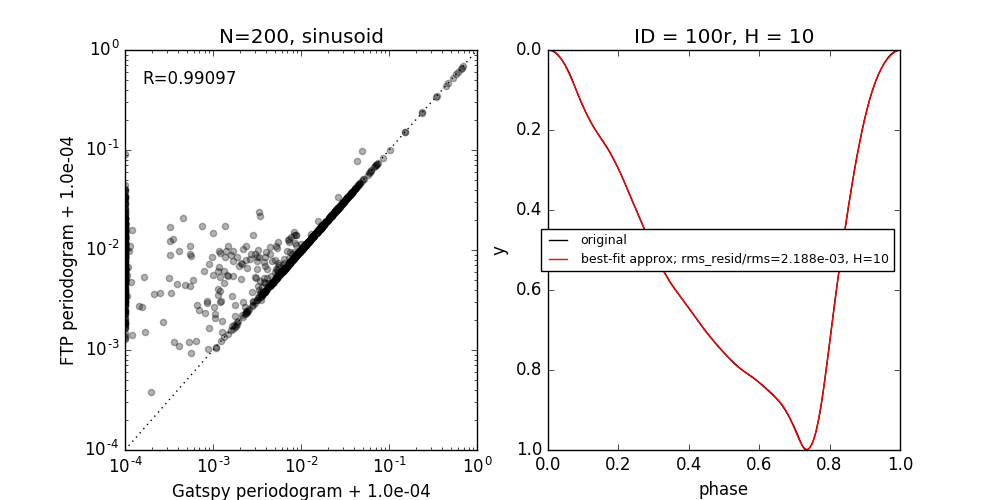
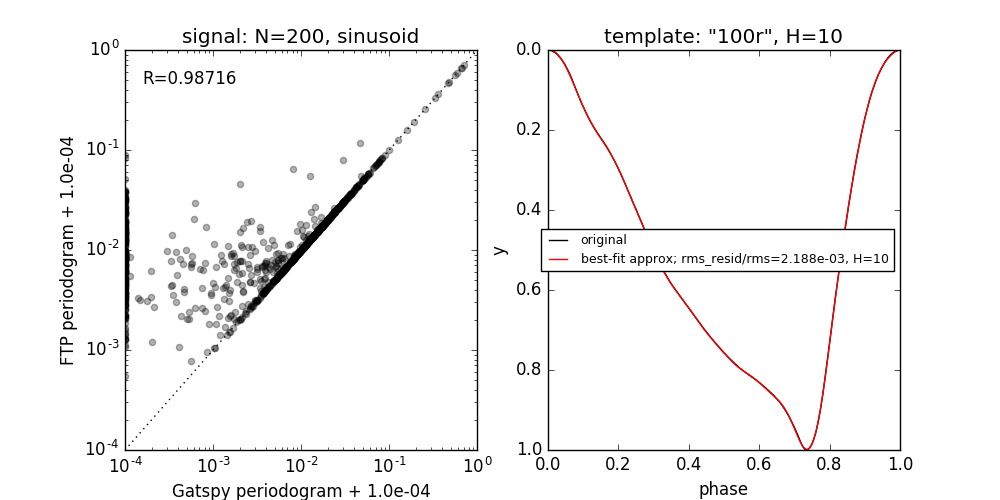
edited readme, small edits to the testing script

diff --git a/testing.py b/testing.py
@@ -188,14 +188,14 @@ if __name__ == '__main__':
 	axp.text(0.05, 0.95, "R=%.5f"%(pearsonr(pg, p)[0]), 
 		transform=axp.transAxes, ha='left', va='top')
 
-	axp.set_title("N=%d, sinusoid"%(N))
+	axp.set_title("signal: N=%d, sinusoid"%(N))
 	template.add_plot_to_axis(axt)
 	axt.set_xlabel('phase')
 	axt.set_ylabel('y')
 	axt.set_xlim(0, 1)
 	axt.set_ylim(0, 1)
 	#axt.legend(loc='best', fontsize=9)
-	axt.set_title('ID = %s, H = %d'%(ftp_template_id, template.nharmonics))
+	axt.set_title('template: "%s", H=%d'%(ftp_template_id, template.nharmonics))
 	#axt.text(0.5, 0.05, '$\\left<\\left(\\hat{T} - T\\right)^2\\right>^{1/2}'\
 	#					'/\\left<T^2\\right>^{1/2}=%.5f$'%(template.rms_resid_over_rms), transform=axt.transAxes, ha='center', va='bottom')
 	axt.invert_yaxis()

diff --git a/README.md b/README.md
@@ -23,7 +23,7 @@ uses non-linear least-squares fitting to compute the optimal parameters
 process scales as `N_obs*N_f`, where `N` is the number of observations and
 `N_f` is the number of frequencies at which to calculate the periodogram.
 
-This process is extremely slow. [Sesar et al. (2016)]() applied a similar
+This process is extremely slow. [Sesar et al. (2016)](https://arxiv.org/abs/1611.08596) applied a similar
 template fitting procedure to multiband Pan-STARRS photometry and found that
 (1) template fitting was signicantly more accurate for estimating periods
 of RR Lyrae stars, but that (2) it required a substantial amount of 
@@ -33,7 +33,7 @@ However, if the templates are sufficiently smooth (or can be adequately
 approximated by a sufficiently smooth template) the template can be
 represented by a short truncated Fourier series of length `H`. Using this 
 representation, the optimal parameters (amplitude, phase, offset) 
-of the template can then be found exactly after finding the roots of 
+of the template fit can then be found exactly after finding the roots of 
 a polynomial at each trial frequency.
 
 The coefficients of these polynomials involve sums that can be efficiently
@@ -66,7 +66,8 @@ In a multi-harmonic periodogram, the relative amplitudes and phases of the Fouri
 *free parameters*. These extra free parameters mean that (1) you need a larger
 number of observations `N_obs` to reach the same signal to noise, and (2) you are
 more likely to detect a multiple of the true frequency. For a discussion of this
-effect and other periodograms, see [Vanderplas et al. (2015)]().
+effect, possible remedies with Tikhonov regularization, and an illuminating review
+of periodograms in general, see [Vanderplas et al. (2015)](http://adsabs.harvard.edu/abs/2015ApJ...812...18V).
 
 Requirements
 ------------
@@ -102,6 +103,9 @@ template.precompute()
 
 # create a FastTemplateModeler
 model = modeler.FastTemplateModeler()
+
+# add the template(s) to your modeler
+model.add_templates([ template ])
 
 # get some data
 t, mag, err = get_your_data()
@@ -141,12 +145,12 @@ freqs, periodogram = model.periodogram(ofac=20, hfac=1)
 
 ```
 
-  
-
+ 
 Updates
 -------
 
-* See the [issues]() section for known bugs! You can also submit bugs through this interface.
+* See the [issues](https://github.com/PrincetonUniversity/FastTemplatePeriodogram/issues) 
+section for known bugs! You can also submit bugs through this interface.
 
 Timing
 ------
